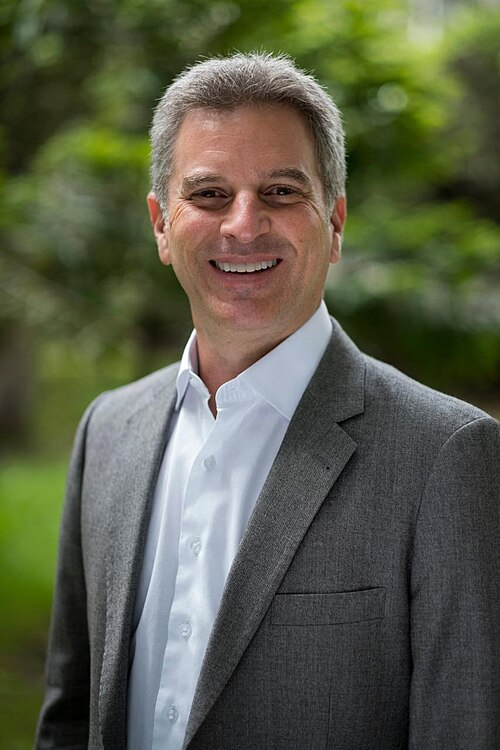
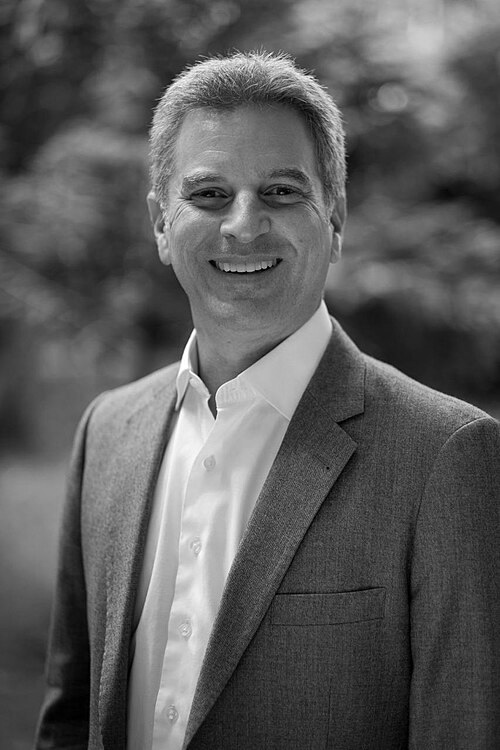
feat: animated color hover on topic and city filter chips
TopicChip and CityChip now track hover state locally and transition
between colors smoothly (200ms). Topics brighten to their unique hue
on hover; cities shift from transparent to zinc-800 with gray border.
Also replaces Carlos Eduardo Correa photo with proper BW version.

diff --git a/components/EpisodesGrid.tsx b/components/EpisodesGrid.tsx
@@ -40,7 +40,7 @@ const TOPIC_COLORS: Record<string, { h: number; s: number }> = {
   "Ciudades Globales": { h: 239, s: 84 },
 };
 
-function topicStyle(topic: string, active: boolean) {
+function topicStyle(topic: string, active: boolean, hovered: boolean) {
   const c = TOPIC_COLORS[topic] ?? { h: 30, s: 60 };
   if (active) {
     return {
@@ -49,11 +49,57 @@ function topicStyle(topic: string, active: boolean) {
       borderColor: `hsl(${c.h} ${c.s}% 55%)`,
     };
   }
+  if (hovered) {
+    return {
+      background: `hsl(${c.h} ${c.s}% 50% / 0.22)`,
+      color: `hsl(${c.h} ${c.s}% 88%)`,
+      borderColor: `hsl(${c.h} ${c.s}% 55% / 0.6)`,
+    };
+  }
   return {
     background: `hsl(${c.h} ${c.s}% 50% / 0.1)`,
     color: `hsl(${c.h} ${c.s}% 75%)`,
     borderColor: `hsl(${c.h} ${c.s}% 50% / 0.25)`,
   };
+}
+
+function TopicChip({ topic, active, onClick }: { topic: string; active: boolean; onClick: () => void }) {
+  const [hovered, setHovered] = useState(false);
+  return (
+    <button
+      onClick={onClick}
+      onMouseEnter={() => setHovered(true)}
+      onMouseLeave={() => setHovered(false)}
+      className="px-3 py-1.5 rounded-full text-sm font-medium border transition-all duration-200"
+      style={topicStyle(topic, active, hovered)}
+    >
+      {topic}
+    </button>
+  );
+}
+
+function CityChip({ city, active, onClick }: { city: string; active: boolean; onClick: () => void }) {
+  const [hovered, setHovered] = useState(false);
+  let style: React.CSSProperties;
+  if (active) {
+    style = { background: "#27272a", color: "#f4f4f5", borderColor: "#f97316" };
+  } else if (hovered) {
+    style = { background: "#27272a", color: "#e4e4e7", borderColor: "#71717a" };
+  } else {
+    style = { background: "transparent", color: "#71717a", borderColor: "#3f3f46" };
+  }
+  return (
+    <button
+      onClick={onClick}
+      onMouseEnter={() => setHovered(true)}
+      onMouseLeave={() => setHovered(false)}
+      className="px-3 py-1.5 rounded-full text-sm font-medium border transition-all duration-200 flex items-center gap-1.5"
+      style={style}
+    >
+      <MapPin size={10} weight="bold" />
+      {city}
+    </button>
+  );
 }
 
 function EpisodeCard({
@@ -224,14 +270,12 @@ export default function EpisodesGrid({ episodes, topics }: EpisodesGridProps) {
             Todos
           </button>
           {topics.map((topic) => (
-            <button
+            <TopicChip
               key={topic}
+              topic={topic}
+              active={activeTopic === topic}
               onClick={() => setActiveTopic(topic === activeTopic ? null : topic)}
-              className="px-3 py-1.5 rounded-full text-sm font-medium border transition-all"
-              style={topicStyle(topic, activeTopic === topic)}
-            >
-              {topic}
-            </button>
+            />
           ))}
         </div>
       </div>
@@ -250,17 +294,12 @@ export default function EpisodesGrid({ episodes, topics }: EpisodesGridProps) {
             Todas
           </button>
           {cities.map((city) => (
-            <button
+            <CityChip
               key={city}
+              city={city}
+              active={activeCity === city}
               onClick={() => setActiveCity(city === activeCity ? null : city)}
-              className="px-3 py-1.5 rounded-full text-sm font-medium border transition-all flex items-center gap-1.5"
-              style={activeCity === city
-                ? { background: "#27272a", color: "#f4f4f5", borderColor: "#f97316" }
-                : { background: "transparent", color: "#71717a", borderColor: "#3f3f46" }}
-            >
-              <MapPin size={10} weight="bold" />
-              {city}
-            </button>
+            />
           ))}
         </div>
       </div>